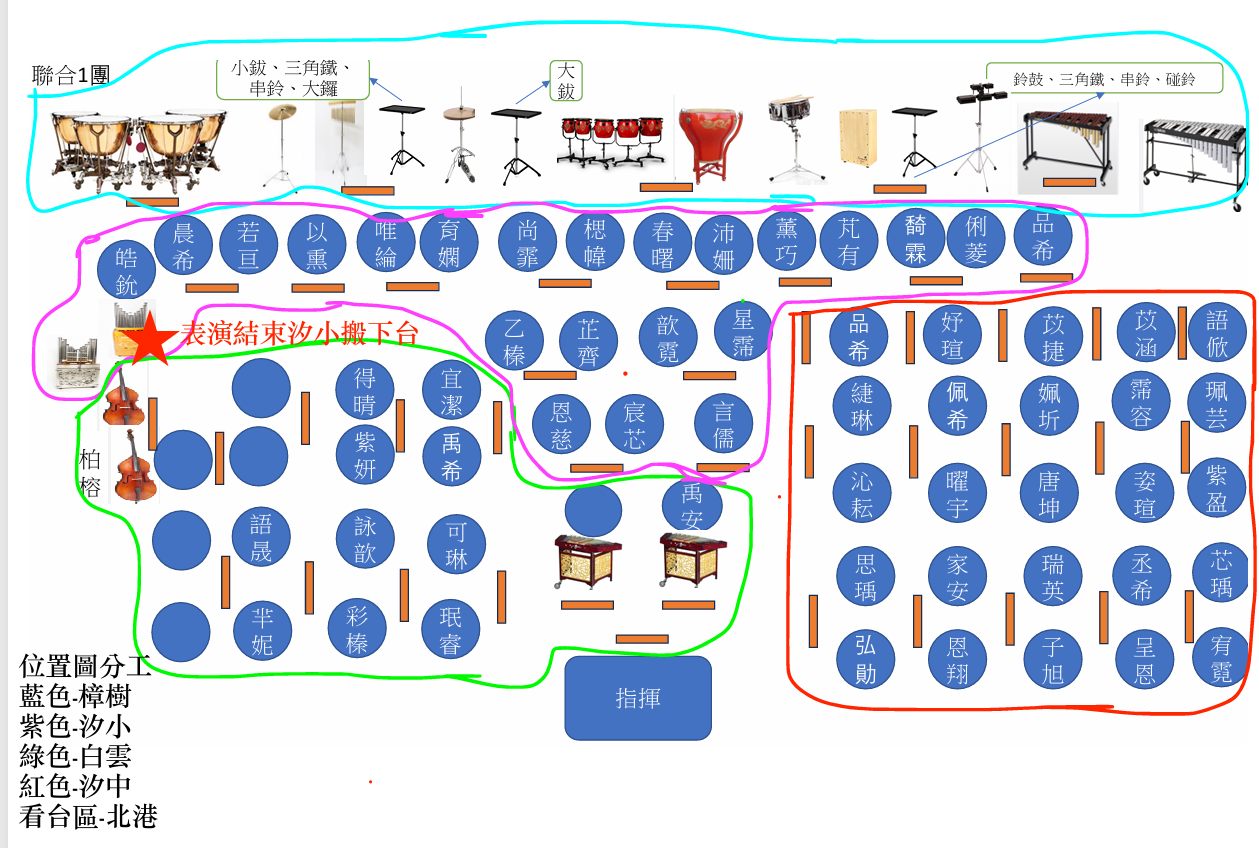
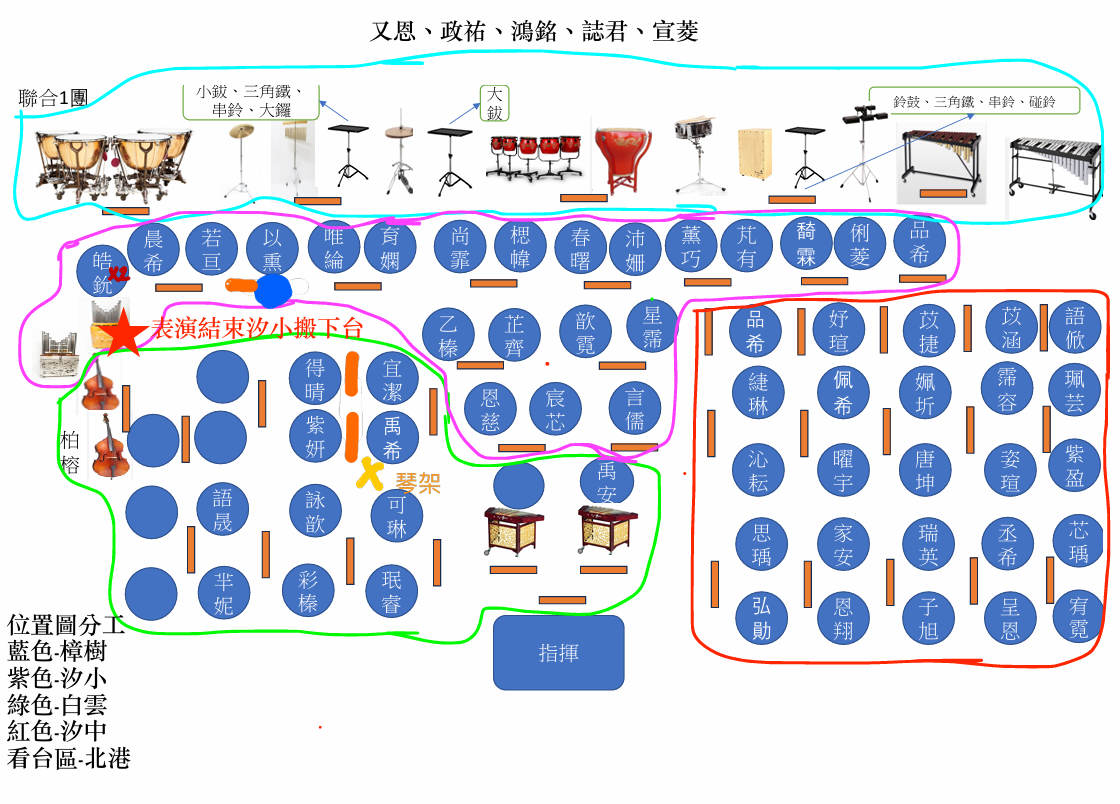
update

diff --git a/2026_5School_Concert/amizu_stage.html b/2026_5School_Concert/amizu_stage.html
@@ -168,7 +168,7 @@ ul{
     </div>
 
     <div class="subtitle">
-        場佈圖與場務注意事項
+        場佈圖
     </div>
 
     <div class="card">
@@ -219,73 +219,6 @@ ul{
 
     </div>
 
-    <div class="card notice">
-
-        <div class="notice-title">
-            白雲國小支援家長注意事項
-        </div>
-
-        1.
-        <span class="important">
-        白雲國小支援家長屬於「汐中端場務組」
-        </span>
-        <br>
-
-        2.
-        請於
-        <span class="important">5/23（六）08:00</span>
-        到
-        <span class="important">汐止國中</span>
-        協助樂器下樓與上車（
-        <a href="instrument_list.png" target="_blank" style="color:#1d4ed8; font-weight:bold; text-decoration:underline;">樂器清單</a>
-        ）。
-        <br>
-
-        3.
-        請於
-        <span class="important">08:50</span>
-        前將
-        <span class="important">關東旗、揚琴布、中音笙</span>
-        搬到汐止國小（<b>家安爸爸</b>）。
-        <br>
-
-        4.
-        到達汐止國小後請協助確認：
-        <span class="important">排鼓、鈴鼓、三角鐵</span>
-        擺放位置。
-        <br>
-
-        5.
-        阿美族舞曲彩排時間：
-        <span class="important">10:00~10:10</span>
-        <br>
-
-        6.
-        換場（
-        <span class="important">10:50~11:10</span>
-        ）時，場務組需協助佈置：
-        <a href="combined_group_1.html" style="color:#1d4ed8; font-weight:bold; text-decoration:underline;">聯合一團座位</a>
-        （下半場彩排用）。
-        <br>
-
-        7.
-        阿美族舞曲正式演出時間：
-        <span class="important">14:30~14:40</span>
-        <br>
-
-        8.
-        中場休息（
-        <span class="important">15:10~15:25</span>
-        ）時，場務組需協助佈置：
-        <a href="combined_group_1.html" style="color:#1d4ed8; font-weight:bold; text-decoration:underline;">聯合一團座位</a>
-        與安可曲座位。
-        <br>
-
-        9.
-        演出結束後需協助：
-        <span class="important">搬下樂器與椅子。</span>
-
-    </div>
 
     <div class="card">
 

diff --git a/2026_5School_Concert/index.html b/2026_5School_Concert/index.html
@@ -445,6 +445,21 @@ td{
         流程表與工作細項
     </div>
 
+    <div class="card notice">
+
+        <div style="font-size:24px; font-weight:bold; margin-bottom:12px;">
+            全體注意事項
+        </div>
+
+        <b>5/23（六）休息室分配（六藝樓）：</b><br>
+        ・汐小：3F <b>301</b> 教室<br>
+        ・汐中：3F <b>304</b> 教室<br>
+        ・北港：3F <b>325</b> 教室<br>
+        ・<span class="important">白雲：4F 401 教室 ⭐</span><br>
+        ・樟樹：5F <b>501</b> 教室
+
+    </div>
+
     <div class="card">
 
         <div class="section-title">